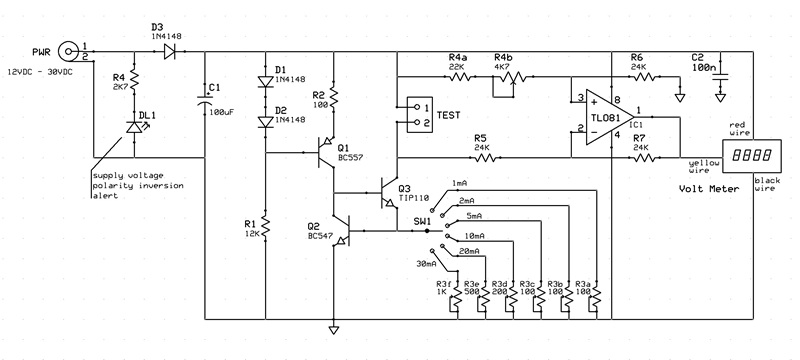
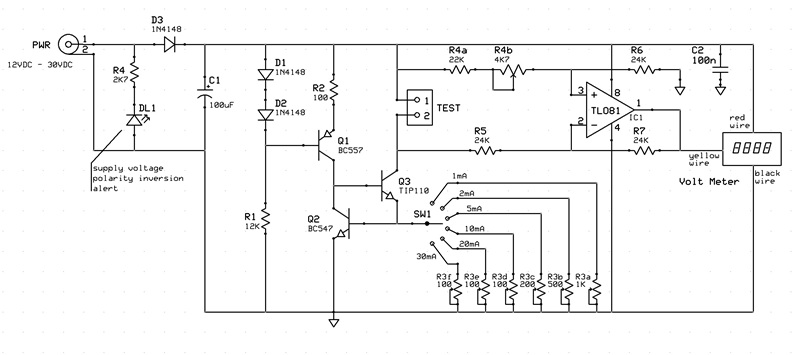
fix sw1 trimmers

diff --git a/README.md b/README.md
@@ -31,12 +31,12 @@ The load current must be adjustable between $1.0mA$ and $30mA$:
 $I_{C3} = V_{BE2}/R_3$
 
 Assuming $V_{BE2} = 0.7V  \implies$
-- $R_{3_{1.0mA}} = 23$&Omega; $\implies R_{3a} = 100$&Omega; trimmer
-- $R_{3_{2.0mA}} = 35$&Omega; $\implies R_{3b} = 100$&Omega; trimmer
-- $R_{3_{5.0mA}} = 70$&Omega; $\implies R_{3c} = 100$&Omega; trimmer
-- $R_{3_{10mA}} = 140$&Omega; $\implies R_{3d} = 200$&Omega; trimmer
-- $R_{3_{20mA}} = 350$&Omega; $\implies R_{3e} = 500$&Omega; trimmer
-- $R_{3_{30mA}} = 700$&Omega; $\implies R_{3f} = 1K$&Omega; trimmer
+- $R_{3_{1.0mA}} = 700$&Omega; $\implies R_{3a} = 1K$&Omega; trimmer
+- $R_{3_{2.0mA}} = 350$&Omega; $\implies R_{3b} = 500$&Omega; trimmer
+- $R_{3_{5.0mA}} = 140$&Omega; $\implies R_{3c} = 200$&Omega; trimmer
+- $R_{3_{10mA}} = 70$&Omega; $\implies R_{3d} = 100$&Omega; trimmer
+- $R_{3_{20mA}} = 35$&Omega; $\implies R_{3e} = 100$&Omega; trimmer
+- $R_{3_{30mA}} = 23$&Omega; $\implies R_{3f} = 100$&Omega; trimmer
 
 $P_{R_{3_{MAX}}} = I_{C_{3_{MAX}}}^2 * R_{3_{MIN}} = 2mW$
 